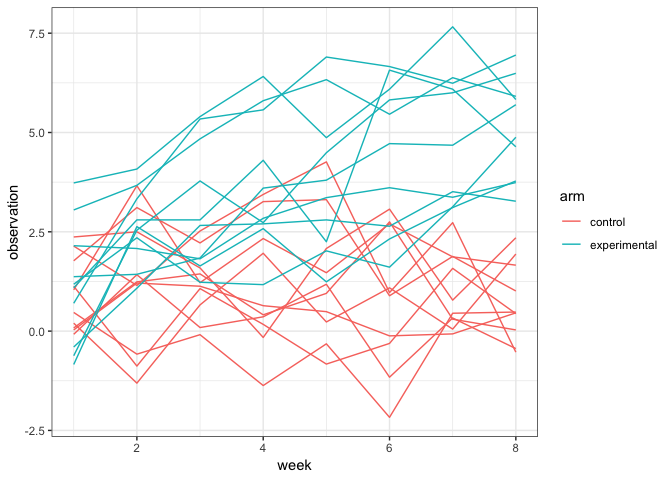
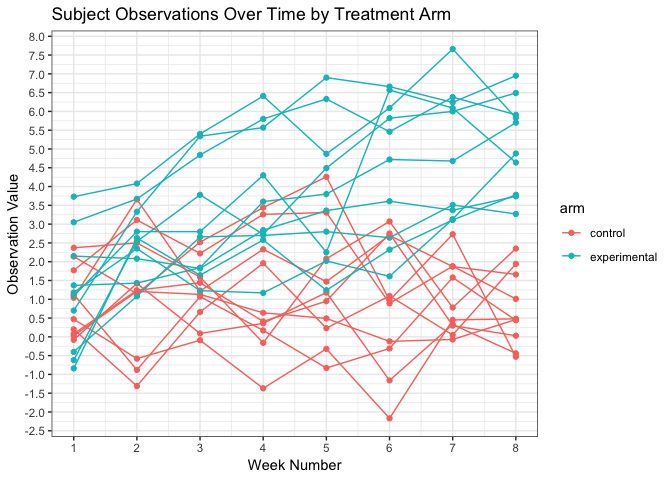
Commit

diff --git a/p8105_hw5_edm2152.md b/p8105_hw5_edm2152.md
@@ -11,232 +11,7 @@ one_df =
   tibble(participant = list.files("./data", full.names = TRUE)) %>% # Getting all file names using list.files
   mutate(long_data = map(participant, read_csv)) %>% # Using map, similar to Napoleon Dynamite Example to read in the data for each subject
   unnest()
-```
 
-    ## Parsed with column specification:
-    ## cols(
-    ##   week_1 = col_double(),
-    ##   week_2 = col_double(),
-    ##   week_3 = col_double(),
-    ##   week_4 = col_double(),
-    ##   week_5 = col_double(),
-    ##   week_6 = col_double(),
-    ##   week_7 = col_double(),
-    ##   week_8 = col_double()
-    ## )
-    ## Parsed with column specification:
-    ## cols(
-    ##   week_1 = col_double(),
-    ##   week_2 = col_double(),
-    ##   week_3 = col_double(),
-    ##   week_4 = col_double(),
-    ##   week_5 = col_double(),
-    ##   week_6 = col_double(),
-    ##   week_7 = col_double(),
-    ##   week_8 = col_double()
-    ## )
-    ## Parsed with column specification:
-    ## cols(
-    ##   week_1 = col_double(),
-    ##   week_2 = col_double(),
-    ##   week_3 = col_double(),
-    ##   week_4 = col_double(),
-    ##   week_5 = col_double(),
-    ##   week_6 = col_double(),
-    ##   week_7 = col_double(),
-    ##   week_8 = col_double()
-    ## )
-    ## Parsed with column specification:
-    ## cols(
-    ##   week_1 = col_double(),
-    ##   week_2 = col_double(),
-    ##   week_3 = col_double(),
-    ##   week_4 = col_double(),
-    ##   week_5 = col_double(),
-    ##   week_6 = col_double(),
-    ##   week_7 = col_double(),
-    ##   week_8 = col_double()
-    ## )
-    ## Parsed with column specification:
-    ## cols(
-    ##   week_1 = col_double(),
-    ##   week_2 = col_double(),
-    ##   week_3 = col_double(),
-    ##   week_4 = col_double(),
-    ##   week_5 = col_double(),
-    ##   week_6 = col_double(),
-    ##   week_7 = col_double(),
-    ##   week_8 = col_double()
-    ## )
-    ## Parsed with column specification:
-    ## cols(
-    ##   week_1 = col_double(),
-    ##   week_2 = col_double(),
-    ##   week_3 = col_double(),
-    ##   week_4 = col_double(),
-    ##   week_5 = col_double(),
-    ##   week_6 = col_double(),
-    ##   week_7 = col_double(),
-    ##   week_8 = col_double()
-    ## )
-    ## Parsed with column specification:
-    ## cols(
-    ##   week_1 = col_double(),
-    ##   week_2 = col_double(),
-    ##   week_3 = col_double(),
-    ##   week_4 = col_double(),
-    ##   week_5 = col_double(),
-    ##   week_6 = col_double(),
-    ##   week_7 = col_double(),
-    ##   week_8 = col_double()
-    ## )
-    ## Parsed with column specification:
-    ## cols(
-    ##   week_1 = col_double(),
-    ##   week_2 = col_double(),
-    ##   week_3 = col_double(),
-    ##   week_4 = col_double(),
-    ##   week_5 = col_double(),
-    ##   week_6 = col_double(),
-    ##   week_7 = col_double(),
-    ##   week_8 = col_double()
-    ## )
-    ## Parsed with column specification:
-    ## cols(
-    ##   week_1 = col_double(),
-    ##   week_2 = col_double(),
-    ##   week_3 = col_double(),
-    ##   week_4 = col_double(),
-    ##   week_5 = col_double(),
-    ##   week_6 = col_double(),
-    ##   week_7 = col_double(),
-    ##   week_8 = col_double()
-    ## )
-    ## Parsed with column specification:
-    ## cols(
-    ##   week_1 = col_double(),
-    ##   week_2 = col_double(),
-    ##   week_3 = col_double(),
-    ##   week_4 = col_double(),
-    ##   week_5 = col_double(),
-    ##   week_6 = col_double(),
-    ##   week_7 = col_double(),
-    ##   week_8 = col_double()
-    ## )
-    ## Parsed with column specification:
-    ## cols(
-    ##   week_1 = col_double(),
-    ##   week_2 = col_double(),
-    ##   week_3 = col_double(),
-    ##   week_4 = col_double(),
-    ##   week_5 = col_double(),
-    ##   week_6 = col_double(),
-    ##   week_7 = col_double(),
-    ##   week_8 = col_double()
-    ## )
-    ## Parsed with column specification:
-    ## cols(
-    ##   week_1 = col_double(),
-    ##   week_2 = col_double(),
-    ##   week_3 = col_double(),
-    ##   week_4 = col_double(),
-    ##   week_5 = col_double(),
-    ##   week_6 = col_double(),
-    ##   week_7 = col_double(),
-    ##   week_8 = col_double()
-    ## )
-    ## Parsed with column specification:
-    ## cols(
-    ##   week_1 = col_double(),
-    ##   week_2 = col_double(),
-    ##   week_3 = col_double(),
-    ##   week_4 = col_double(),
-    ##   week_5 = col_double(),
-    ##   week_6 = col_double(),
-    ##   week_7 = col_double(),
-    ##   week_8 = col_double()
-    ## )
-
-    ## Parsed with column specification:
-    ## cols(
-    ##   week_1 = col_double(),
-    ##   week_2 = col_double(),
-    ##   week_3 = col_double(),
-    ##   week_4 = col_double(),
-    ##   week_5 = col_double(),
-    ##   week_6 = col_double(),
-    ##   week_7 = col_integer(),
-    ##   week_8 = col_double()
-    ## )
-
-    ## Parsed with column specification:
-    ## cols(
-    ##   week_1 = col_double(),
-    ##   week_2 = col_double(),
-    ##   week_3 = col_double(),
-    ##   week_4 = col_double(),
-    ##   week_5 = col_double(),
-    ##   week_6 = col_double(),
-    ##   week_7 = col_double(),
-    ##   week_8 = col_double()
-    ## )
-    ## Parsed with column specification:
-    ## cols(
-    ##   week_1 = col_double(),
-    ##   week_2 = col_double(),
-    ##   week_3 = col_double(),
-    ##   week_4 = col_double(),
-    ##   week_5 = col_double(),
-    ##   week_6 = col_double(),
-    ##   week_7 = col_double(),
-    ##   week_8 = col_double()
-    ## )
-    ## Parsed with column specification:
-    ## cols(
-    ##   week_1 = col_double(),
-    ##   week_2 = col_double(),
-    ##   week_3 = col_double(),
-    ##   week_4 = col_double(),
-    ##   week_5 = col_double(),
-    ##   week_6 = col_double(),
-    ##   week_7 = col_double(),
-    ##   week_8 = col_double()
-    ## )
-    ## Parsed with column specification:
-    ## cols(
-    ##   week_1 = col_double(),
-    ##   week_2 = col_double(),
-    ##   week_3 = col_double(),
-    ##   week_4 = col_double(),
-    ##   week_5 = col_double(),
-    ##   week_6 = col_double(),
-    ##   week_7 = col_double(),
-    ##   week_8 = col_double()
-    ## )
-    ## Parsed with column specification:
-    ## cols(
-    ##   week_1 = col_double(),
-    ##   week_2 = col_double(),
-    ##   week_3 = col_double(),
-    ##   week_4 = col_double(),
-    ##   week_5 = col_double(),
-    ##   week_6 = col_double(),
-    ##   week_7 = col_double(),
-    ##   week_8 = col_double()
-    ## )
-    ## Parsed with column specification:
-    ## cols(
-    ##   week_1 = col_double(),
-    ##   week_2 = col_double(),
-    ##   week_3 = col_double(),
-    ##   week_4 = col_double(),
-    ##   week_5 = col_double(),
-    ##   week_6 = col_double(),
-    ##   week_7 = col_double(),
-    ##   week_8 = col_double()
-    ## )
-
-``` r
 one_df_tidy = # Creating a new data frame for the tidy version of this dataset and tidying 
   one_df %>% 
   separate(participant, into = c("arm", "id"), sep = "_") %>% 
@@ -258,17 +33,100 @@ one_df_tidy = # Creating a new data frame for the tidy version of this dataset a
 one_df_tidy %>% 
   group_by(arm, id) %>% 
   ggplot(aes(x = week, y = observation, color = arm, type = id)) + 
+  geom_point() +
   geom_line() + 
-  theme_bw() 
+  theme_bw() +
+  scale_x_continuous(breaks = seq(1, 8, 1)) + 
+  scale_y_continuous(breaks = seq(-2.5, 8, 0.5)) + 
+  labs(title = "Subject Observations Over Time by Treatment Arm", 
+       x = "Week Number",
+       y = "Observation Value") 
 ```
 
 ![](p8105_hw5_edm2152_files/figure-markdown_github/Spaghetti%20Plot-1.png)
 
 ``` r
-# Make this look pretty and make comment below better 
+# + facet_grid(~arm) decided not to include this and overlay the two arms in one plot 
 ```
 
 From our line plot, we can see that there appears to be a clear difference between the control and experimental arms. The experimental group appears to increase over time in observation value and the control group appears to hover around the same value or slightly decrease over time.
 
 Problem 2
 ---------
+
+``` r
+# I imported the raw file straight from GitHub, just in case the data is updated in the future then those updates will be incoporated in my code
+
+wp_homicide_data_raw = 
+  read_csv("https://raw.githubusercontent.com/washingtonpost/data-homicides/master/homicide-data.csv") %>% 
+  janitor::clean_names()
+```
+
+Describing the Raw Data:
+
+``` r
+# Adding the city state variable by concatenating the two existing location variables 
+
+wp_homicide_data = 
+  wp_homicide_data_raw %>% 
+  mutate(city_state = str_c(city, state, sep = ", ")) 
+
+# Filtering out unsolved homicides 
+
+unsolved_homicides = 
+  wp_homicide_data %>% 
+  group_by(city_state) %>% 
+  filter(disposition %in% c("Closed without arrest", "Open/No arrest")) %>%
+  summarize(unsolved = n())
+
+# Total homicides in the data set
+
+total_homicides = 
+  wp_homicide_data %>% 
+  group_by(city_state) %>% 
+  summarize(total = n())
+
+# Joining the two, creating a data set with city_state variable, unsolved homicides and total homicides 
+
+homicide_vals = 
+  left_join(unsolved_homicides, total_homicides, by = "city_state") %>% 
+  arrange(-total)
+```
+
+``` r
+# Creating a function for prop.test for repeated use,  also adding in the eventual broom::tidy 
+
+est_prop_unsolved = function(df) {
+  
+  unsolved_data = prop.test(df$unsolved, df$total)
+  
+  broom::tidy(unsolved_data) %>% 
+    select(estimate, conf.low, conf.high)
+}
+
+baltimore_est_prop = 
+  homicide_vals %>% 
+  filter(city_state == "Baltimore, MD") %>% 
+  est_prop_unsolved %>% 
+  knitr::kable()
+```
+
+``` r
+all_cities_nest = nest(homicide_vals, unsolved, total)
+
+all_unsolved = 
+  all_cities_nest %>% 
+  mutate(all_prop_unsolved = map(data, est_prop_unsolved)) %>% 
+  unnest()
+```
+
+``` r
+all_unsolved %>% 
+  mutate(city_state = fct_reorder(city_state, estimate)) %>% 
+  ggplot(aes(x = city_state, y = estimate)) + 
+  geom_point() + 
+  geom_errorbar(aes(ymin = conf.low, ymax = conf.high)) + 
+  coord_flip()
+```
+
+![](p8105_hw5_edm2152_files/figure-markdown_github/plotting%20estimates-1.png)
